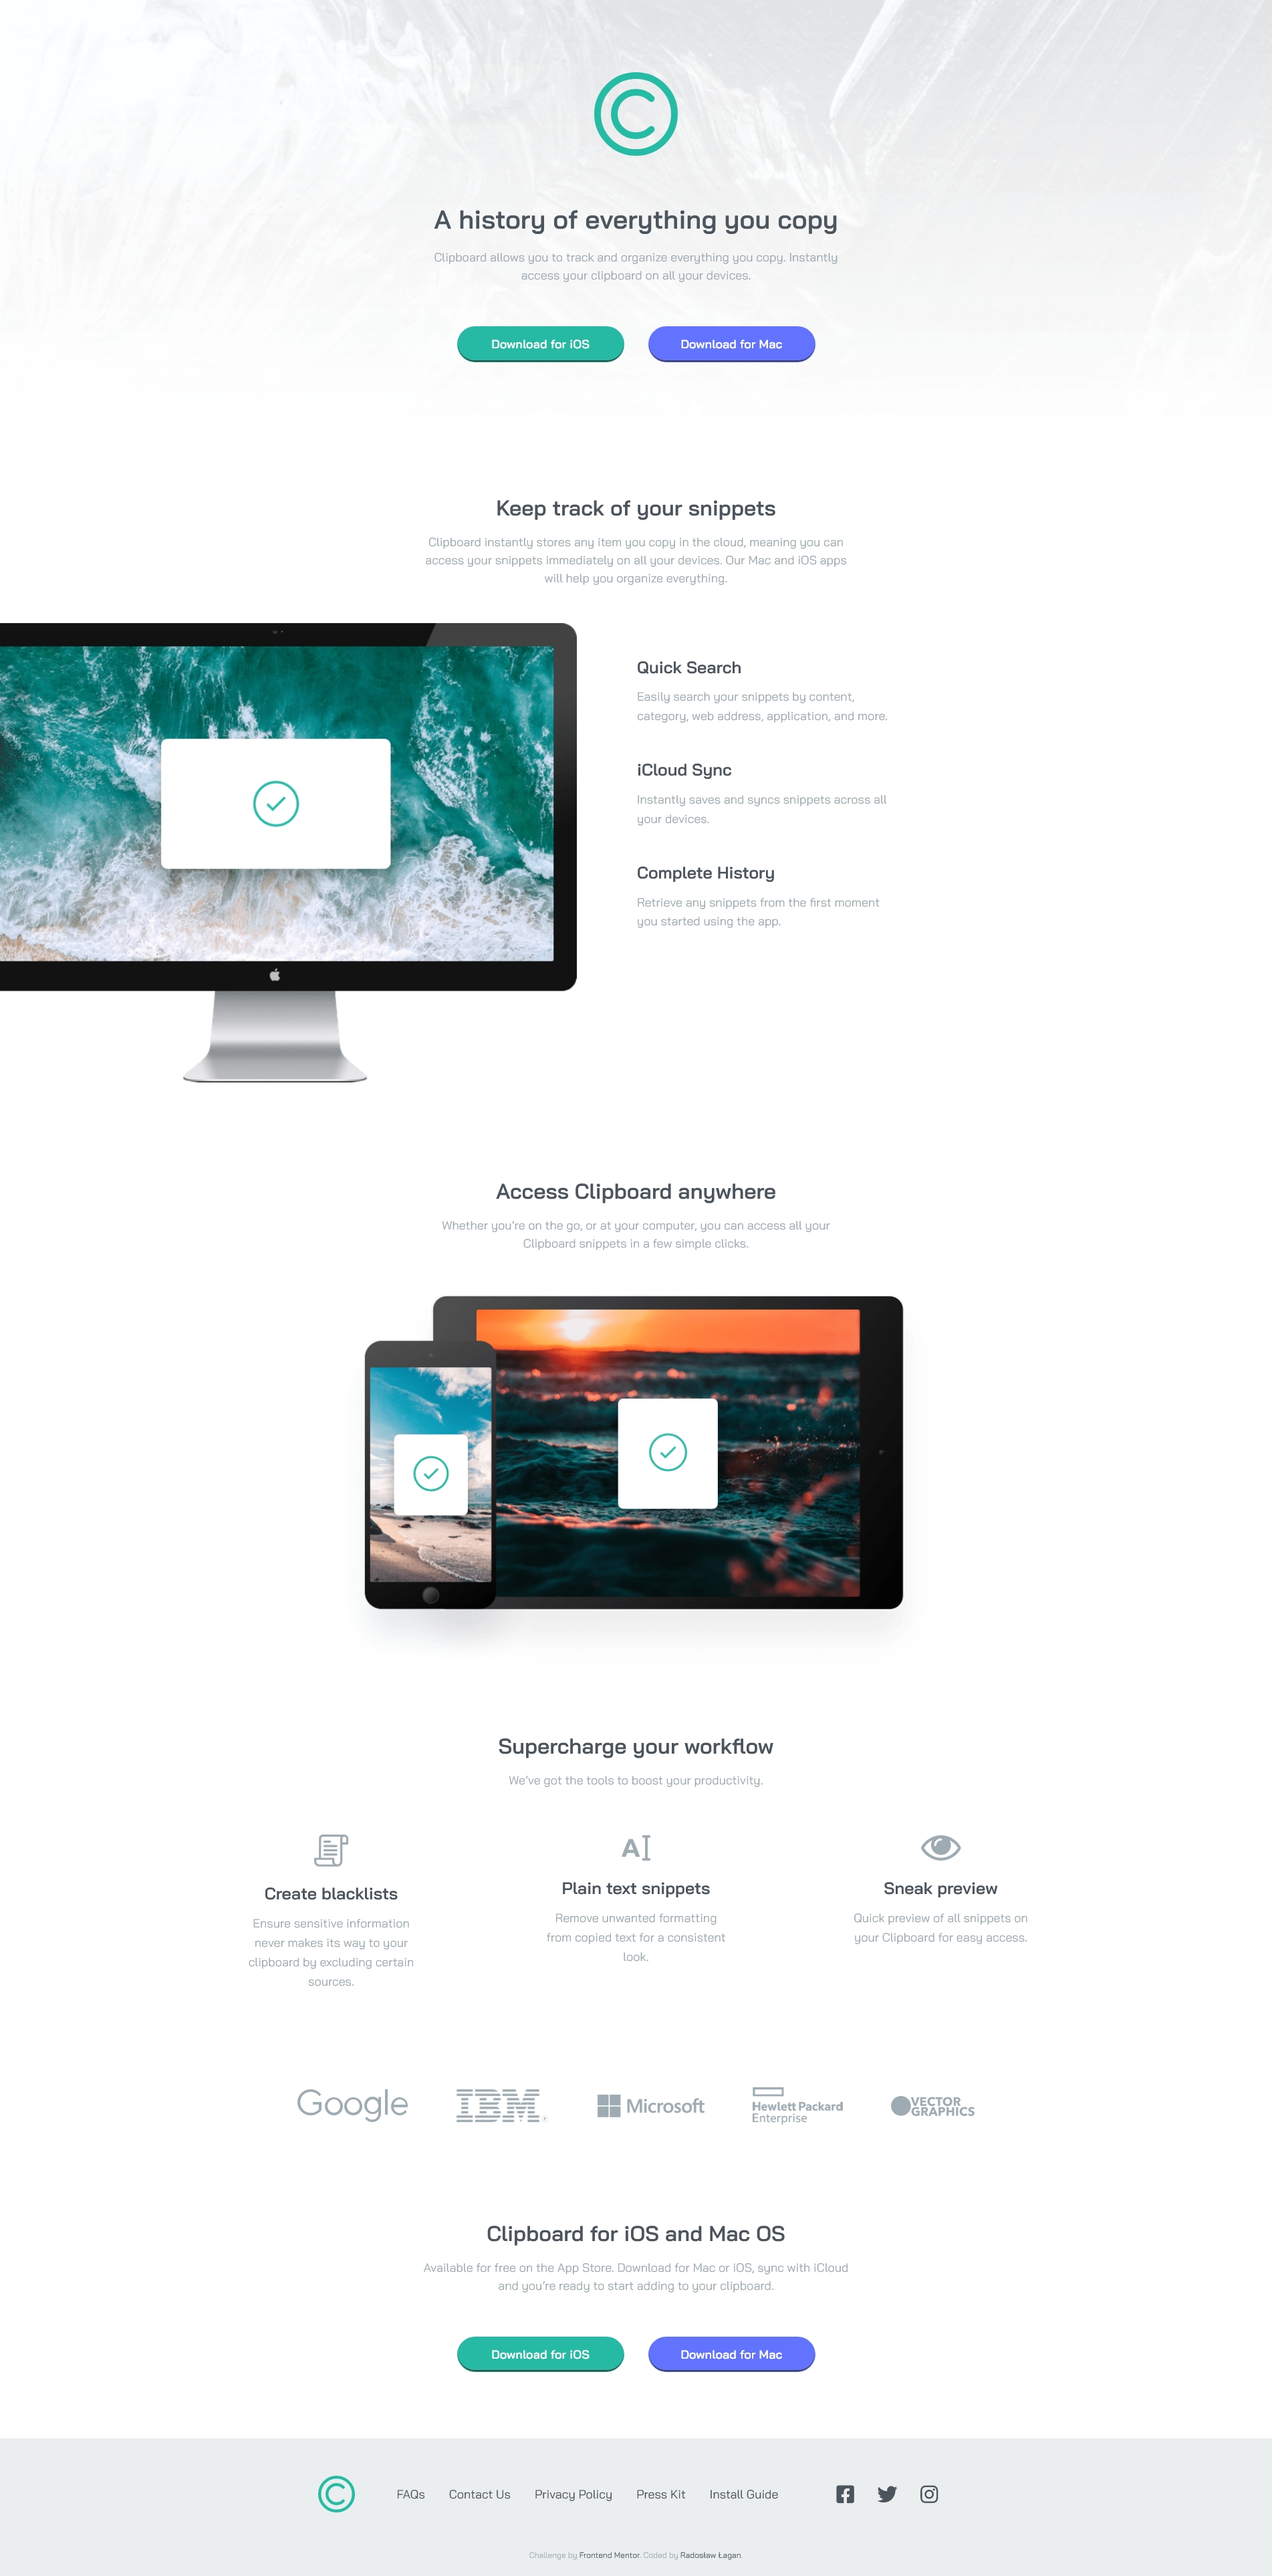
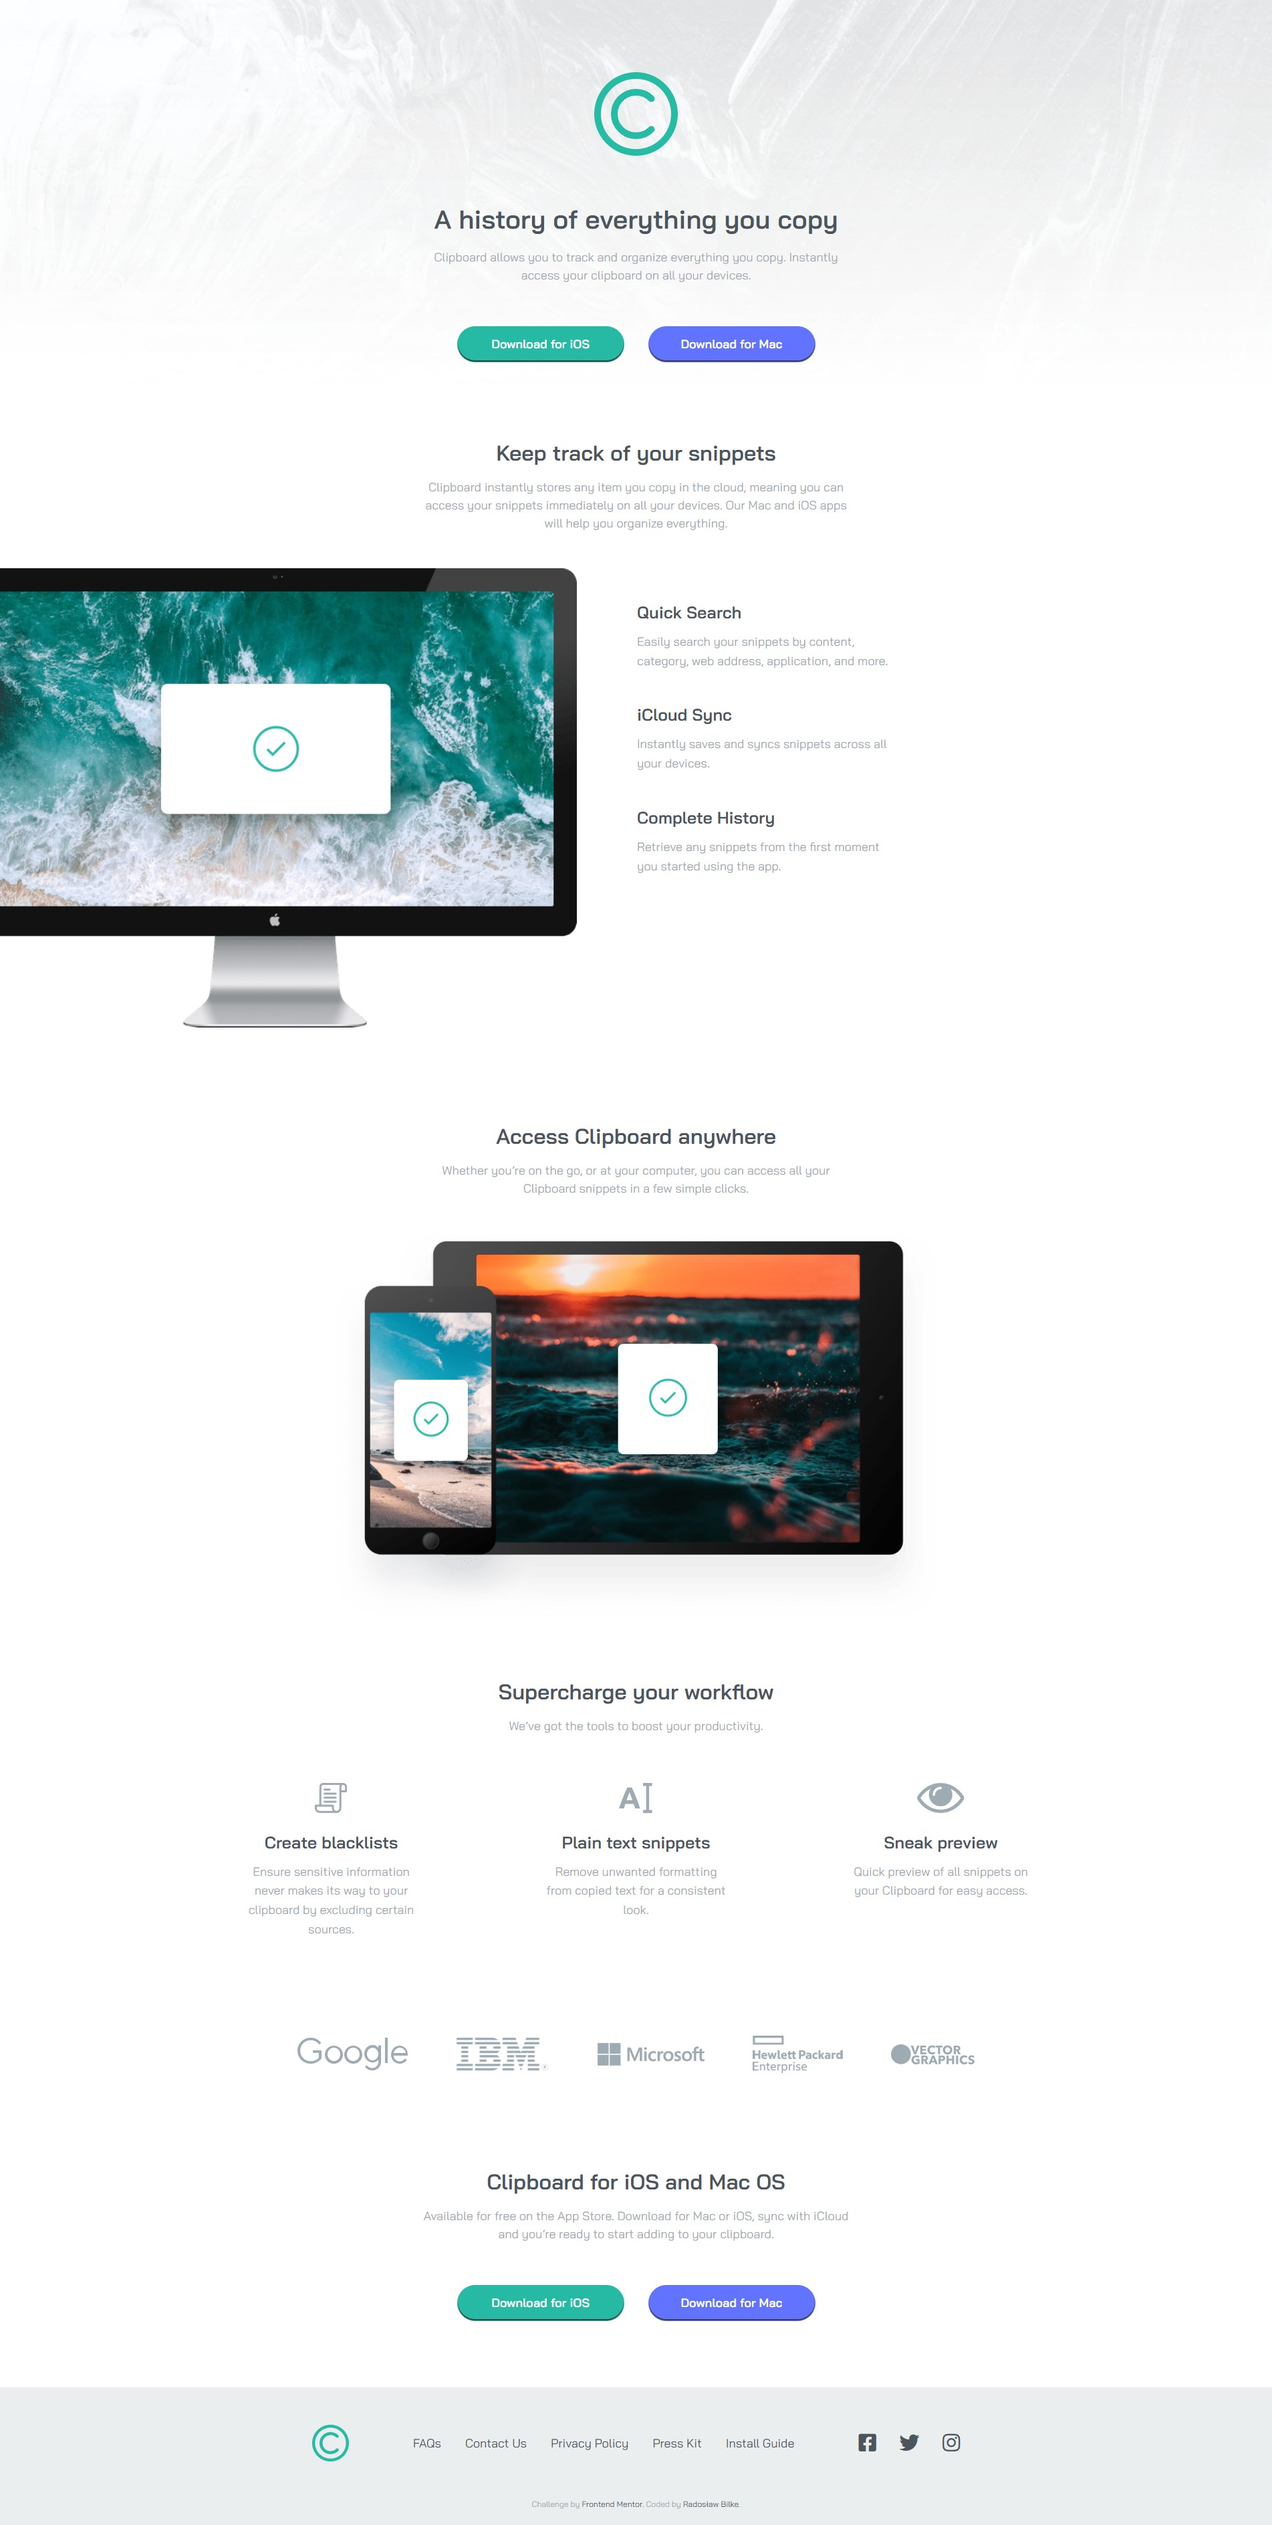
Update screenshot and replace Font Awesome kit

diff --git a/index.html b/index.html
@@ -8,7 +8,7 @@
   <link rel="preconnect" href="https://fonts.googleapis.com">
   <link rel="preconnect" href="https://fonts.gstatic.com" crossorigin>
   <link href="https://fonts.googleapis.com/css2?family=Bai+Jamjuree:wght@400;600&display=swap" rel="stylesheet">
-  <script src="https://kit.fontawesome.com/b76dbff05e.js" crossorigin="anonymous"></script>
+  <link rel="stylesheet" href="https://cdnjs.cloudflare.com/ajax/libs/font-awesome/5.15.4/css/all.min.css" integrity="sha512-1ycn6IcaQQ40/MKBW2W4Rhis/DbILU74C1vSrLJxCq57o941Ym01SwNsOMqvEBFlcgUa6xLiPY/NS5R+E6ztJQ==" crossorigin="anonymous" referrerpolicy="no-referrer">
   <link rel="stylesheet" href="css/main.css">
 </head>
 
